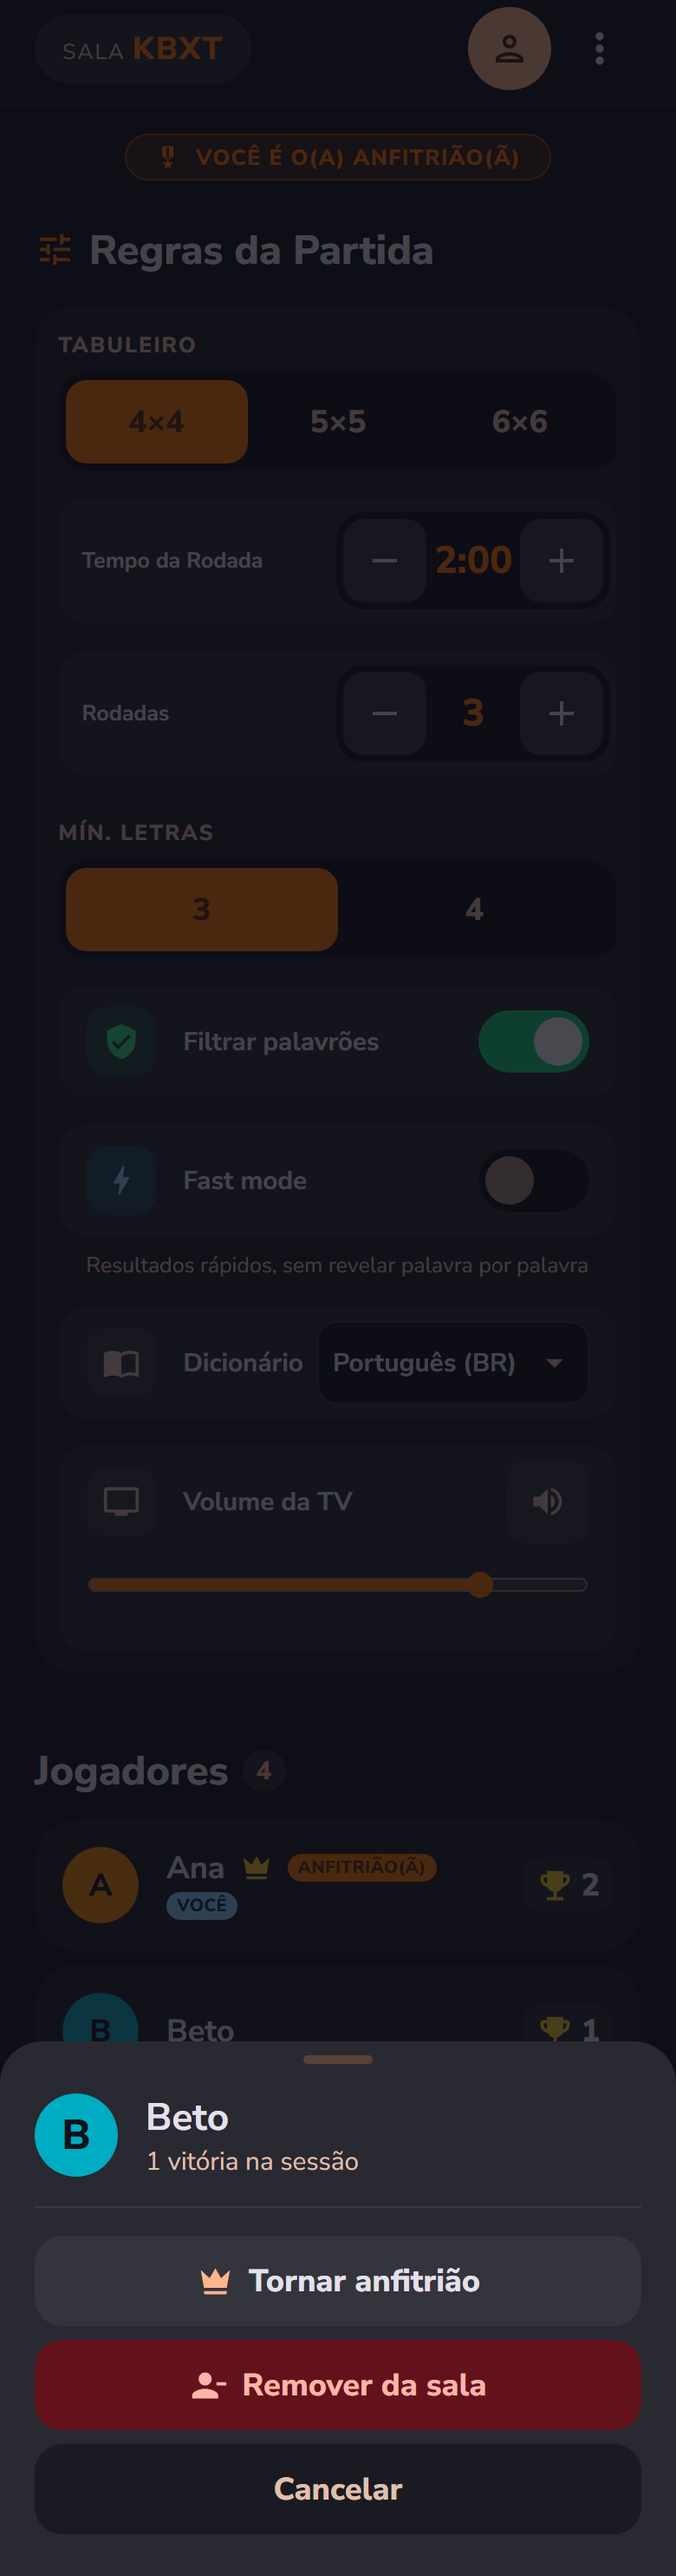
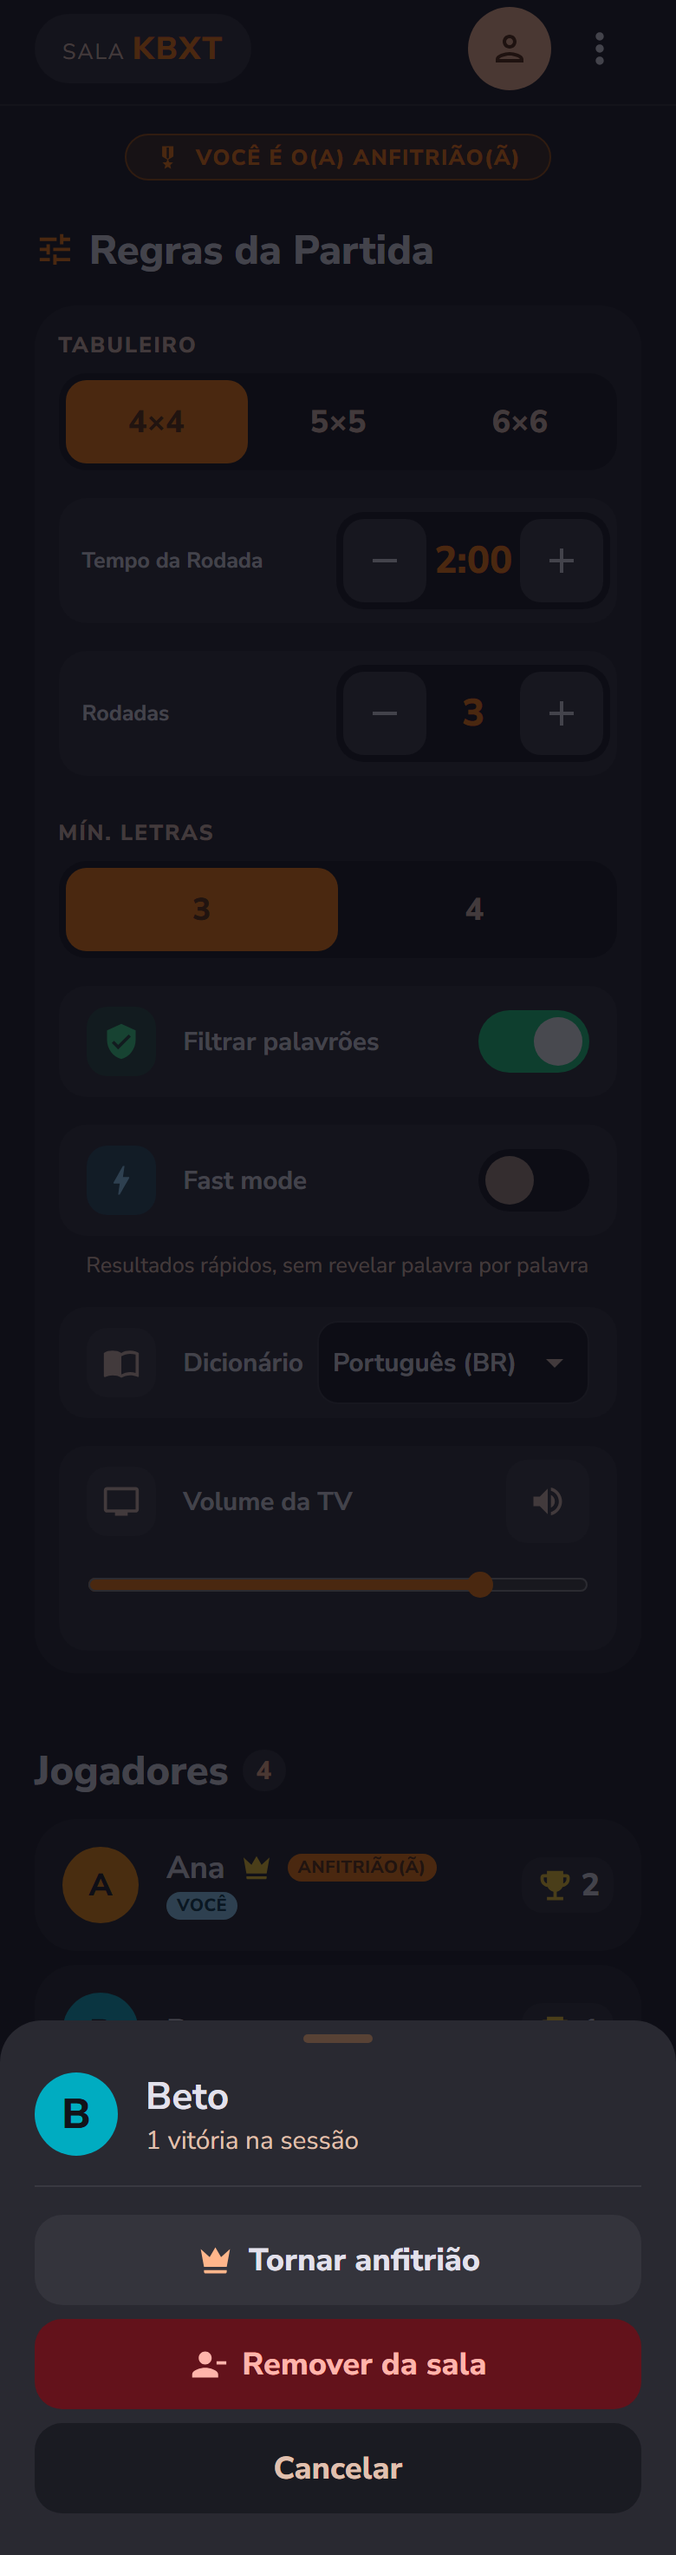
test(phone): take pictures at the capture size
Each picture now runs in a window of its capture's CSS size and scale
(pictureWindow) and takes a viewport screenshot, so sticky footers sit
at the foot as in the capture; infinite animations such as the waiting
dots are frozen with animations: 'disabled'.

diff --git a/packages/phone/e2e/fake-room.ts b/packages/phone/e2e/fake-room.ts
@@ -72,6 +72,42 @@ const CAPTURE_WIDTH = 390;
  */
 export const PICTURE_WIDTH = Number(process.env.PICTURE_WIDTH ?? CAPTURE_WIDTH);
 
+/** A capture's window: its CSS height and its scale; the width is the capture's pixel width divided by the scale. */
+interface CaptureWindow {
+  readonly cssHeight: number;
+  readonly scale: number;
+}
+
+/**
+ * The window each capture was drawn in: its pixel size divided by its scale, so a picture taken
+ * there has the capture's pixel size and lays out as the capture does (no full-page shot, no resize).
+ */
+const CAPTURE_WINDOWS: Readonly<Record<string, CaptureWindow>> = {
+  'phone-board': { cssHeight: 884, scale: 2 },
+  'phone-code': { cssHeight: 884, scale: 2 },
+  'phone-countdown': { cssHeight: 884, scale: 2 },
+  'phone-feedbacks': { cssHeight: 884, scale: 2 },
+  'phone-host-actions': { cssHeight: 1472, scale: 2 },
+  'phone-host-lobby': { cssHeight: 1457, scale: 2 },
+  'phone-join': { cssHeight: 884, scale: 2 },
+  'phone-kicked': { cssHeight: 884, scale: 2 },
+  'phone-lobby': { cssHeight: 884, scale: 2 },
+  'phone-podium': { cssHeight: 1233, scale: 1 },
+  'phone-room-closed': { cssHeight: 884, scale: 2 },
+  'phone-round-result': { cssHeight: 1031, scale: 1 },
+  'phone-spectator': { cssHeight: 884, scale: 2 },
+};
+
+/**
+ * The browser options of the picture of `capture`, for `test.use`: the capture's window, at
+ * `PICTURE_WIDTH` CSS px wide when that is set to another width.
+ */
+export function pictureWindow(capture: string): { viewport: { width: number; height: number }; deviceScaleFactor: number } {
+  const size = CAPTURE_WINDOWS[capture];
+  if (size === undefined) throw new Error(`No capture window for "${capture}"`);
+  return { viewport: { width: PICTURE_WIDTH, height: size.cssHeight }, deviceScaleFactor: size.scale };
+}
+
 /** Where the other widths go: out of the repository, beside the test results. */
 const otherWidths = join(dirname(fileURLToPath(import.meta.url)), '../test-results/pictures');
 

diff --git a/packages/phone/e2e/exit.picture.ts b/packages/phone/e2e/exit.picture.ts
@@ -1,7 +1,7 @@
 import type { CloseReason } from '@bwords/core';
 import { expect, test } from '@playwright/test';
 import { STRINGS } from '../src/strings/pt-BR.ts';
-import { fakeRoom, picturePath } from './fake-room.ts';
+import { fakeRoom, picturePath, pictureWindow } from './fake-room.ts';
 import { ANA, BETO, CAIO, DUDA, lobbyWelcome, SAMPLE_CODE } from './samples.ts';
 
 /** Beto's phone in KBXT's lobby, closed by the server with `reason` right after `welcome`. */
@@ -11,14 +11,18 @@ const PICTURES: { capture: string; reason: CloseReason; heading: string }[] = [
 ];
 
 for (const { capture, reason, heading } of PICTURES) {
-  test(capture, async ({ page }) => {
-    await fakeRoom(page, (msg) => ({
-      replies: msg.type === 'hello' ? [lobbyWelcome([ANA, BETO, CAIO, DUDA], BETO.id), { type: 'closed', reason }] : [],
-      close: msg.type === 'hello',
-    }));
-    await page.goto(`/${SAMPLE_CODE}`);
-    await expect(page.getByRole('heading', { name: heading })).toBeVisible();
+  test.describe(capture, () => {
+    test.use(pictureWindow(capture));
 
-    await page.screenshot({ path: picturePath(capture), fullPage: true });
+    test(capture, async ({ page }) => {
+      await fakeRoom(page, (msg) => ({
+        replies: msg.type === 'hello' ? [lobbyWelcome([ANA, BETO, CAIO, DUDA], BETO.id), { type: 'closed', reason }] : [],
+        close: msg.type === 'hello',
+      }));
+      await page.goto(`/${SAMPLE_CODE}`);
+      await expect(page.getByRole('heading', { name: heading })).toBeVisible();
+
+      await page.screenshot({ path: picturePath(capture), animations: 'disabled' });
+    });
   });
 }

diff --git a/packages/phone/e2e/podium.picture.ts b/packages/phone/e2e/podium.picture.ts
@@ -1,7 +1,10 @@
 import { expect, test } from '@playwright/test';
 import { STRINGS } from '../src/strings/pt-BR.ts';
-import { fakeRoom, picturePath, PICTURE_WIDTH } from './fake-room.ts';
+import { fakeRoom, picturePath, pictureWindow } from './fake-room.ts';
 import { ANA, ANA_FOUND, PODIUM_PLAYERS, resultsWelcome, SAMPLE_CODE, SAMPLE_PODIUM, sampleResults, SCORED_PLAYERS } from './samples.ts';
+
+// The capture draws the whole screen in one window, with the fixed buttons at its foot.
+test.use(pictureWindow('phone-podium'));
 
 test('phone-podium', async ({ page }) => {
   // The capture's state: Ana's phone, Ana hosts and wins with 46 points and her 3rd win; CORACOES is her longest word.
@@ -20,11 +23,7 @@ test('phone-podium', async ({ page }) => {
   await page.goto(`/${SAMPLE_CODE}`);
   await expect(page.getByRole('button', { name: STRINGS.playAgain })).toBeVisible();
 
-  // The capture draws the whole screen in one window, with the fixed buttons at its foot,
-  // so the window is as tall as the page. Each piece of confetti stops at its own point of the fall,
-  // as the capture freezes them.
-  const height = await page.evaluate(() => document.documentElement.scrollHeight);
-  await page.setViewportSize({ width: PICTURE_WIDTH, height });
+  // Each piece of confetti stops at its own point of the fall, as the capture freezes them.
   await page.evaluate(() => {
     document.getAnimations().forEach((animation, index) => {
       animation.pause();

diff --git a/packages/phone/e2e/board.picture.ts b/packages/phone/e2e/board.picture.ts
@@ -1,6 +1,6 @@
 import { expect, test } from '@playwright/test';
 import { STRINGS } from '../src/strings/pt-BR.ts';
-import { picturePath, PICTURE_WIDTH } from './fake-room.ts';
+import { picturePath, pictureWindow } from './fake-room.ts';
 import { boardOf, openRound, slideOver, swipe } from './round-room.ts';
 import { SAMPLE_WORDS } from './samples.ts';
 
@@ -9,6 +9,8 @@ const NOW = Date.UTC(2026, 9, 29, 12, 0, 0);
 
 /** 1 min 47 s left, as in the capture. */
 const REMAINING_MS = 107_000;
+
+test.use(pictureWindow('phone-board'));
 
 test('phone-board', async ({ page }) => {
   // The capture's state: Beto's phone in round 1 of 3, CASA just judged valid and swiped again, so the
@@ -52,12 +54,12 @@ test('phone-feedbacks', async ({ page, browser }) => {
     await expect(page.getByRole('status')).toHaveCount(0);
   }
 
-  const sheet = await browser.newPage({ viewport: { width: PICTURE_WIDTH, height: 884 }, deviceScaleFactor: 2 });
+  const sheet = await browser.newPage(pictureWindow('phone-feedbacks'));
   const cards = await page.locator('.word-rack').boundingBox();
   const width = cards?.width ?? 350;
   const background = await page.evaluate(() => getComputedStyle(document.body).backgroundColor);
   await sheet.setContent(sheetHtml(shots, width, background));
-  await sheet.screenshot({ path: picturePath('phone-feedbacks') });
+  await sheet.screenshot({ path: picturePath('phone-feedbacks'), animations: 'disabled' });
   await sheet.close();
 });
 

diff --git a/packages/phone/e2e/host-lobby.picture.ts b/packages/phone/e2e/host-lobby.picture.ts
@@ -1,17 +1,15 @@
 import { expect, test } from '@playwright/test';
 import { STRINGS } from '../src/strings/pt-BR.ts';
-import { fakeRoom, picturePath, PICTURE_WIDTH } from './fake-room.ts';
+import { fakeRoom, picturePath, pictureWindow } from './fake-room.ts';
 import { ANA, BETO, CAIO, DUDA, lobbyWelcome, SAMPLE_CODE } from './samples.ts';
+
+// The capture draws the whole screen in one window, with the sticky start button at its foot.
+test.use(pictureWindow('phone-host-lobby'));
 
 test('phone-host-lobby', async ({ page }) => {
   // The capture's state: Ana's phone, Ana hosts; Caio is disconnected and Duda watches.
   await fakeRoom(page, (msg) => ({ replies: msg.type === 'hello' ? [lobbyWelcome([ANA, BETO, CAIO, DUDA], ANA.id)] : [] }));
   await page.goto(`/${SAMPLE_CODE}`);
   await expect(page.getByText(STRINGS.youAreHost)).toBeVisible();
-
-  // The capture draws the whole screen in one window, with the sticky start button at its foot,
-  // so the window is as tall as the page (a full-page shot would leave the button mid-page).
-  const height = await page.evaluate(() => document.documentElement.scrollHeight);
-  await page.setViewportSize({ width: PICTURE_WIDTH, height });
-  await page.screenshot({ path: picturePath('phone-host-lobby') });
+  await page.screenshot({ path: picturePath('phone-host-lobby'), animations: 'disabled' });
 });

diff --git a/packages/phone/e2e/results.picture.ts b/packages/phone/e2e/results.picture.ts
@@ -1,7 +1,10 @@
 import { expect, test } from '@playwright/test';
 import { STRINGS } from '../src/strings/pt-BR.ts';
-import { fakeRoom, picturePath, PICTURE_WIDTH } from './fake-room.ts';
+import { fakeRoom, picturePath, pictureWindow } from './fake-room.ts';
 import { ANA, ANA_FOUND, resultsWelcome, SAMPLE_CODE, sampleResults, SCORED_PLAYERS } from './samples.ts';
+
+// The capture draws the whole screen in one window, with the sticky buttons at its foot.
+test.use(pictureWindow('phone-round-result'));
 
 test('phone-round-result', async ({ page }) => {
   // The capture's state: Ana's phone, Ana hosts, after round 1 of 3: +18 pts, 32 in all, 1º; CORACOES only hers.
@@ -10,10 +13,5 @@ test('phone-round-result', async ({ page }) => {
   }));
   await page.goto(`/${SAMPLE_CODE}`);
   await expect(page.getByRole('button', { name: STRINGS.nextRound(2, 3) })).toBeVisible();
-
-  // The capture draws the whole screen in one window, with the sticky buttons at its foot,
-  // so the window is as tall as the page.
-  const height = await page.evaluate(() => document.documentElement.scrollHeight);
-  await page.setViewportSize({ width: PICTURE_WIDTH, height });
-  await page.screenshot({ path: picturePath('phone-round-result') });
+  await page.screenshot({ path: picturePath('phone-round-result'), animations: 'disabled' });
 });

diff --git a/packages/phone/e2e/spectator.picture.ts b/packages/phone/e2e/spectator.picture.ts
@@ -1,11 +1,13 @@
 import { expect, test } from '@playwright/test';
 import { STRINGS } from '../src/strings/pt-BR.ts';
-import { picturePath, PICTURE_WIDTH } from './fake-room.ts';
+import { picturePath, pictureWindow } from './fake-room.ts';
 import { openRound } from './round-room.ts';
 import { DUDA } from './samples.ts';
 
 /** The page's clock, frozen: the timer reads 01:47. */
 const NOW = Date.UTC(2026, 9, 29, 12, 0, 0);
+
+test.use(pictureWindow('phone-spectator'));
 
 test('phone-spectator', async ({ page }) => {
   // The capture's state: Duda's phone, a spectator in round 1 of 3 with 1 min 47 s left; Ana hosts and Caio is disconnected.
@@ -13,9 +15,5 @@ test('phone-spectator', async ({ page }) => {
   await openRound(page, { me: DUDA, startsAt: NOW - 13_000, endsAt: NOW + 107_000 });
   await expect(page.getByText(STRINGS.joinsNextRound)).toBeVisible();
   await expect(page.getByRole('timer')).toHaveText('01:47');
-
-  // The capture draws the whole screen in one window, so the window is as tall as the page.
-  const height = await page.evaluate(() => document.documentElement.scrollHeight);
-  await page.setViewportSize({ width: PICTURE_WIDTH, height });
   await page.screenshot({ path: picturePath('phone-spectator'), animations: 'disabled' });
 });

diff --git a/packages/phone/e2e/host-actions.picture.ts b/packages/phone/e2e/host-actions.picture.ts
@@ -1,7 +1,9 @@
 import { expect, test } from '@playwright/test';
 import { STRINGS } from '../src/strings/pt-BR.ts';
-import { fakeRoom, picturePath, PICTURE_WIDTH } from './fake-room.ts';
+import { fakeRoom, picturePath, pictureWindow } from './fake-room.ts';
 import { ANA, BETO, CAIO, DUDA, lobbyWelcome, SAMPLE_CODE } from './samples.ts';
+
+test.use(pictureWindow('phone-host-actions'));
 
 test('phone-host-actions', async ({ page }) => {
   // The capture's state: Ana hosts and tapped Beto; the sheet rises over her lobby.
@@ -9,9 +11,6 @@ test('phone-host-actions', async ({ page }) => {
   await page.goto(`/${SAMPLE_CODE}`);
   await expect(page.getByText(STRINGS.youAreHost)).toBeVisible();
 
-  // One window as tall as the lobby, as the capture draws it, so the sheet sits at the foot of the whole screen.
-  const height = await page.evaluate(() => document.documentElement.scrollHeight);
-  await page.setViewportSize({ width: PICTURE_WIDTH, height });
   await page.getByRole('button', { name: STRINGS.playerActions('Beto') }).click();
   await expect(page.getByRole('dialog', { name: STRINGS.playerActions('Beto') })).toBeVisible();
 

diff --git a/packages/phone/e2e/join.picture.ts b/packages/phone/e2e/join.picture.ts
@@ -1,7 +1,9 @@
 import { expect, test } from '@playwright/test';
 import { STRINGS } from '../src/strings/pt-BR.ts';
-import { fakeRoom, picturePath } from './fake-room.ts';
+import { fakeRoom, picturePath, pictureWindow } from './fake-room.ts';
 import { ANA, CAIO, DUDA, lobbyWelcome, SAMPLE_CODE } from './samples.ts';
+
+test.use(pictureWindow('phone-join'));
 
 test('phone-join', async ({ page }) => {
   // The capture's state: Beto typed, cyan picked, the colors of Ana, Caio and Duda locked.
@@ -12,5 +14,5 @@ test('phone-join', async ({ page }) => {
   await page.getByRole('button', { name: STRINGS.colorOption(5) }).click();
   await expect(page.getByRole('region', { name: STRINGS.tvPreview })).toContainText('Beto');
 
-  await page.screenshot({ path: picturePath('phone-join'), fullPage: true });
+  await page.screenshot({ path: picturePath('phone-join'), animations: 'disabled' });
 });

diff --git a/packages/phone/playwright.pictures.config.ts b/packages/phone/playwright.pictures.config.ts
@@ -3,9 +3,9 @@ import base from './playwright.config.ts';
 import { PICTURE_WIDTH } from './e2e/fake-room.ts';
 
 /**
- * The pictures of the screens with a capture (`captures/<capture>.running.png`):
- * 390 px wide at 2x, the size the captures were drawn at, with the capture's sample
- * data. Run on demand: `npx playwright test -c packages/phone/playwright.pictures.config.ts`;
+ * The pictures of the screens with a capture (`captures/<capture>.running.png`), each in a
+ * window of its capture's size (`pictureWindow`), with the capture's sample data; the default
+ * window below serves the pictures of screens without a capture. Run on demand: `npx playwright test -c packages/phone/playwright.pictures.config.ts`;
  * `PICTURE_WIDTH=320` or `480` shoots the same screens at that width into `test-results/pictures/`.
  */
 export default defineConfig({

diff --git a/packages/phone/e2e/lobby.picture.ts b/packages/phone/e2e/lobby.picture.ts
@@ -1,7 +1,9 @@
 import { expect, test } from '@playwright/test';
 import { STRINGS } from '../src/strings/pt-BR.ts';
-import { fakeRoom, picturePath } from './fake-room.ts';
+import { fakeRoom, picturePath, pictureWindow } from './fake-room.ts';
 import { ANA, BETO, CAIO, DUDA, lobbyWelcome, SAMPLE_CODE } from './samples.ts';
+
+test.use(pictureWindow('phone-lobby'));
 
 test('phone-lobby', async ({ page }) => {
   // The capture's state: Beto's phone; Ana hosts with 2 wins, Caio is disconnected, Duda watches.
@@ -9,5 +11,5 @@ test('phone-lobby', async ({ page }) => {
   await page.goto(`/${SAMPLE_CODE}`);
   await expect(page.getByText(STRINGS.playersInRoom(4))).toBeVisible();
 
-  await page.screenshot({ path: picturePath('phone-lobby'), fullPage: true });
+  await page.screenshot({ path: picturePath('phone-lobby'), animations: 'disabled' });
 });

diff --git a/packages/phone/e2e/code.picture.ts b/packages/phone/e2e/code.picture.ts
@@ -1,6 +1,8 @@
 import { expect, test } from '@playwright/test';
 import { STRINGS } from '../src/strings/pt-BR.ts';
-import { fakeRoom, picturePath } from './fake-room.ts';
+import { fakeRoom, picturePath, pictureWindow } from './fake-room.ts';
+
+test.use(pictureWindow('phone-code'));
 
 test('phone-code', async ({ page }) => {
   // The capture's state: "KBX" typed, the fourth box focused, and "Sala não encontrada".
@@ -11,5 +13,5 @@ test('phone-code', async ({ page }) => {
   await page.getByLabel(STRINGS.codeLetter(4)).focus();
   await page.keyboard.press('Backspace');
 
-  await page.screenshot({ path: picturePath('phone-code'), fullPage: true });
+  await page.screenshot({ path: picturePath('phone-code'), animations: 'disabled' });
 });
